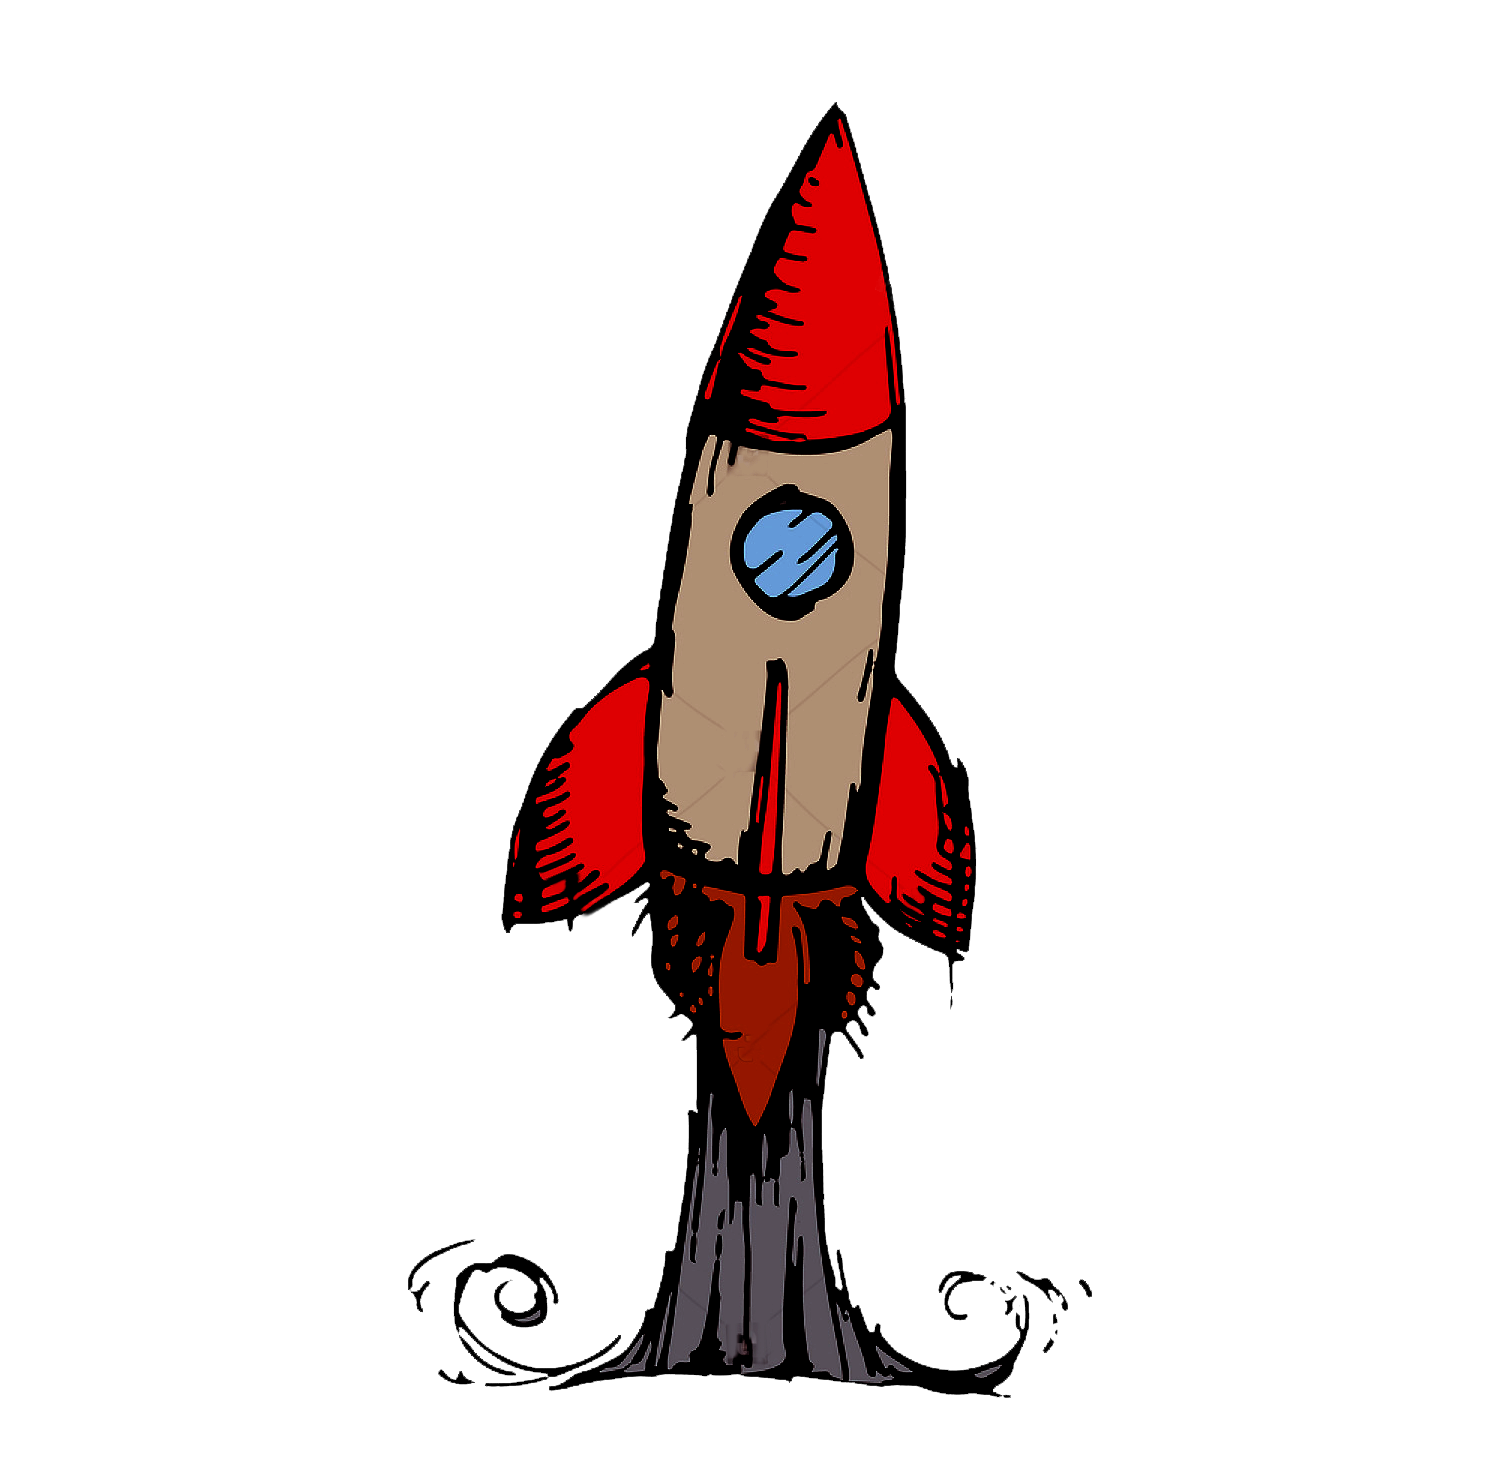
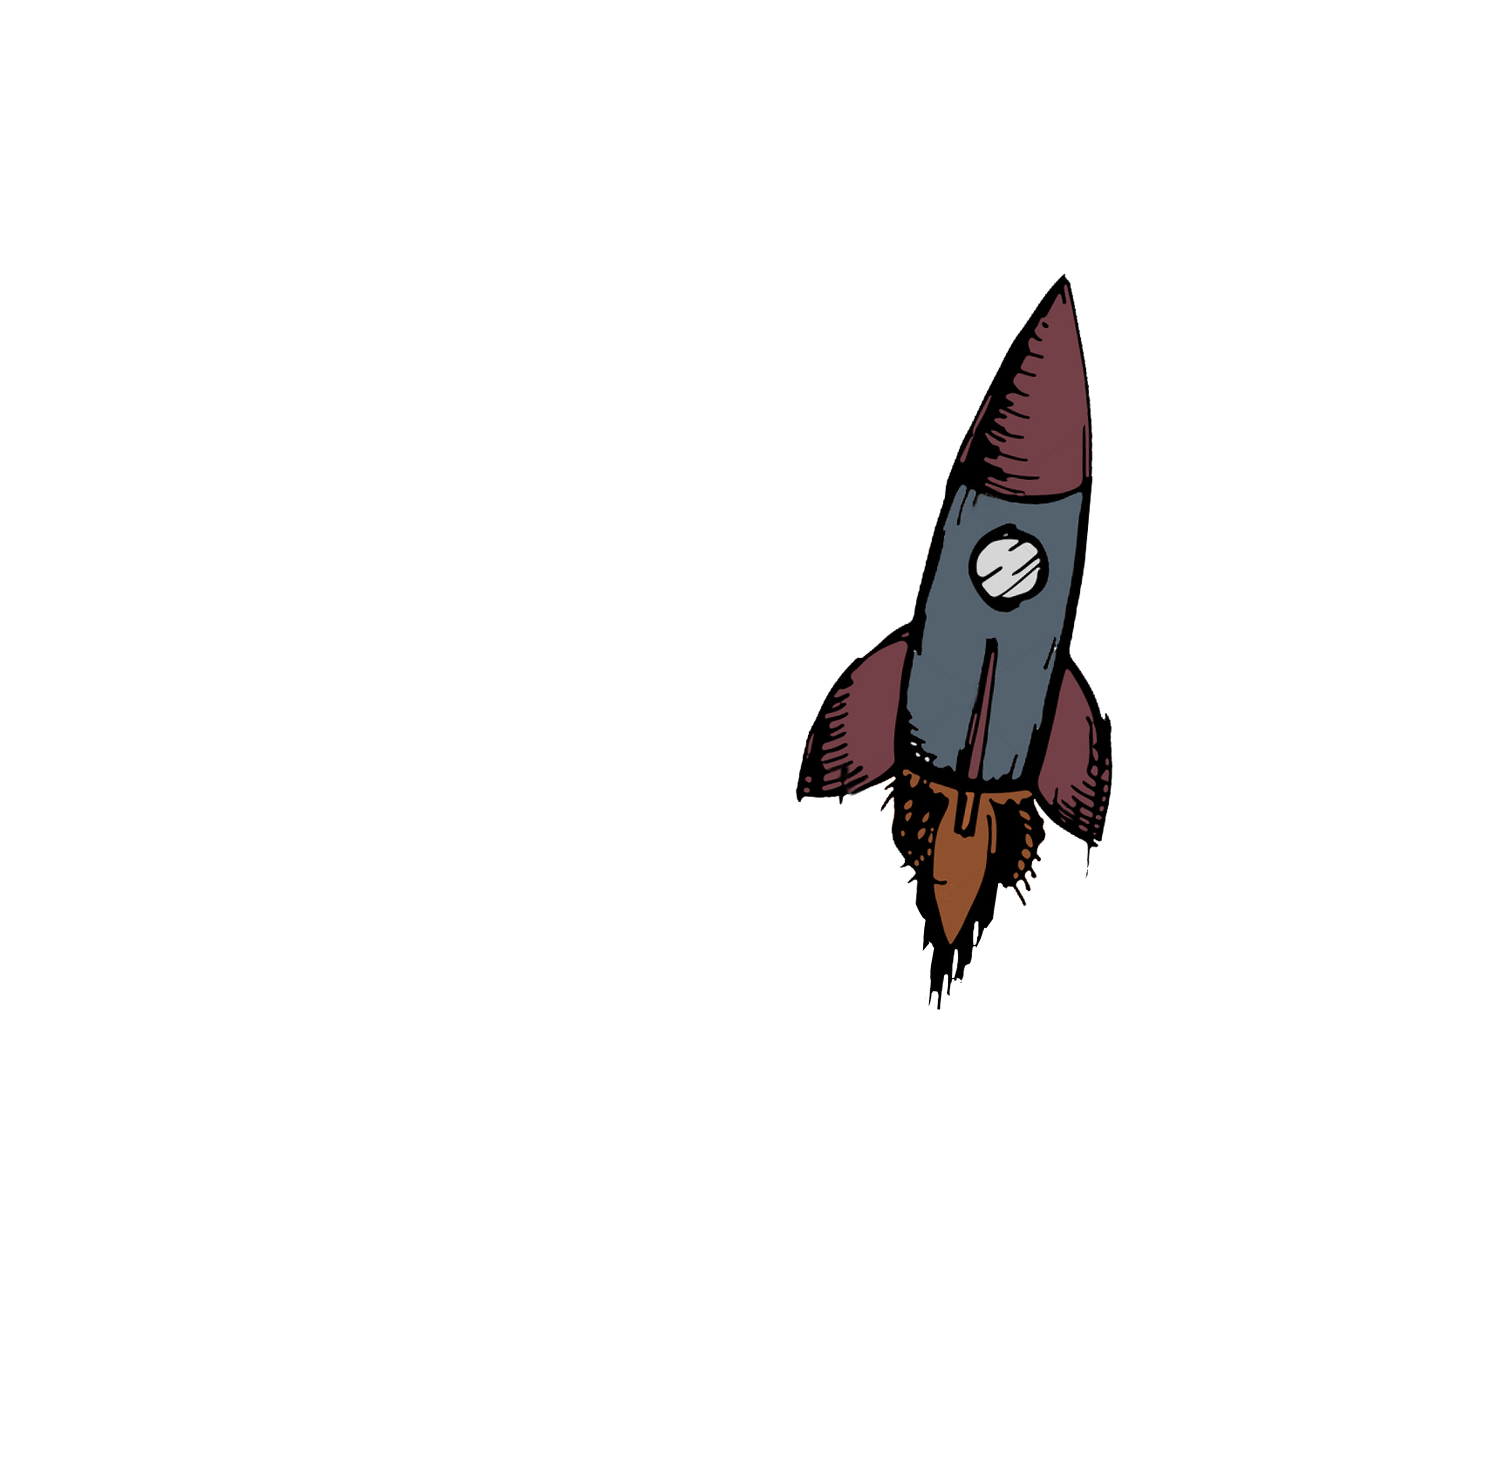
some updates

Changed region(s): [[0.276, 0.0621, 0.7667, 0.9629]]

diff --git a/index.html b/index.html
@@ -1,7 +1,8 @@
-<html>
+<html lang="en">
 <head>
+    <meta name=viewport content="width=device-width, initial-scale=1"/>
   <meta key="title" value="Matt Pileggi - UX Developer">
-  <title>Matt Pileggi - Web Development</title>
+  <title>Matt Pileggi - Development Leader</title>
   <link rel="stylesheet" href="mjp.css" type="text/css">
 </head>
 
@@ -37,7 +38,7 @@
       <div class="parallax" aria-hidden="true">
         <div class="parallax-slides">
           <img src="stars.png">
-          <img src="rocket_sm.png" data-invert data-coeffecient="0.5" class="tall">
+          <img src="rocket_dark.png" data-invert data-coeffecient="0.5" class="tall">
         </div>
       </div>
       <header><h2>Experience</h2></header>
@@ -72,21 +73,21 @@
         <ul class="cards">
           <li>
             <a href="examples/disney.html" target="disney">
-              <strong class="title">Video Playback for Disney/ETC</strong>
-              <div class="preview"><img src="examples/suitcase.jpg" alt="The Suitcase - Disney/ABC Short Film"></div>
+              <strong class="title">Interweave: Wordpress Migration</strong>
+              <div class="preview"><img src="examples/interweave.jpg" alt="Screenshot of Interweave's redesigned website"></div>
             </a>
           </li>
           <li>
-            <strong class="title">Video Playback for Disney/ETC</strong>
-            <div class="preview"><img src="examples/suitcase.jpg" alt="The Suitcase - Disney/ABC Short Film"></div>
+            <strong class="title">Disney: Video Metadata Playback</strong>
+            <div class="preview"><img src="examples/suitcase.jpg" alt="Screenshot of The Suitecase, a short film by Disney ETC"></div>
           </li>
           <li>
-            <strong class="title">Video Playback for Disney/ETC</strong>
-            <div class="preview"><img src="examples/suitcase.jpg" alt="The Suitcase - Disney/ABC Short Film"></div>
+            <strong class="title">Prototype: Vessel Management</strong>
+            <div class="preview"><img src="examples/vessel.jpg" alt="Screenshot of a full-screen map with vessel icons"></div>
           </li>
           <li>
-            <strong class="title">Video Playback for Disney/ETC</strong>
-            <div class="preview"><img src="examples/suitcase.jpg" alt="The Suitcase - Disney/ABC Short Film"></div>
+            <strong class="title">RSuite: Custom CMS Product</strong>
+            <div class="preview"><img src="examples/rsuite.jpg" alt="RSuite CMS logo"></div>
           </li>
         </ul>
       </article>

diff --git a/examples/disney.html b/examples/disney.html
@@ -1,13 +1,25 @@
 <html>
   <head>
-    <meta key="title" value="Matt Pileggi - UX Developer">
-    <title>Matt Pileggi - Web Development</title>
+    <meta key="title" value="Matt Pileggi - Case Study: Disney/ETC Video Metadata Playback - The Suitcase">
+    <title>Matt Pileggi - Case Study: Disney/ETC Video Metadata Playback - The Suitcase</title>
     <link rel="stylesheet" href="mjp.css" type="text/css">
   </head>
   <body>
-    <main> 
-      <h1>Disney ETC</h1>
-      <p>It Works!</p>
+    <main class="example"> 
+      <article>
+        <header>
+          <h1>The Suitcase</h1>
+          <h2>Video Metadata Player</h2>
+          <h3>Disney/ETC</h3>
+        </header>
+        <section class="content">
+          <p>It Works!</p>
+        </section>
+        <footer>
+          <ul class="links">
+            <li><a href="https://www.vimooz.com/2017/04/21/the-suitcase-abi-damaris-corbin-tribeca-2017/" target="_blank">Vimooz summary</a></li>
+          </ul>
+        </footer>
     </main>
   </body>
 </html>

diff --git a/mjp.css b/mjp.css
@@ -105,8 +105,8 @@ footer {
   height: 100%;
 }
 .parallax img {
-  width: 125%;
-  height: auto;
+  width: 200%;
+  height: 200%;
   position: absolute;
   left: 0;
   top: 0;
@@ -207,7 +207,7 @@ footer {
 #career header, #career .content {
   color: #FFF;
   font-size: 1.25em;
-  text-shadow: 0 1px 0 black; 
+  text-shadow: -1px 4px 1px black; 
 }
 
 #career dl {
@@ -246,3 +246,6 @@ footer {
 
 
 
+@media screen and (max-width: 600px) {
+  .parallax { display: none}
+}
